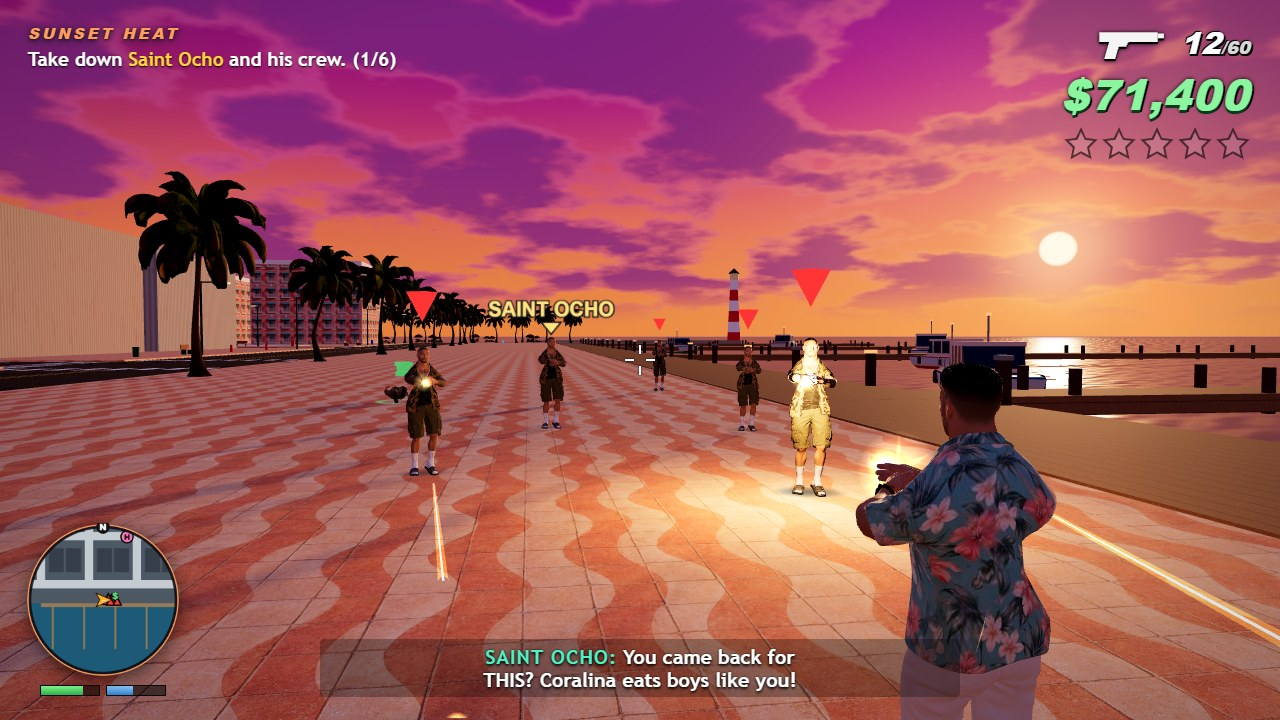
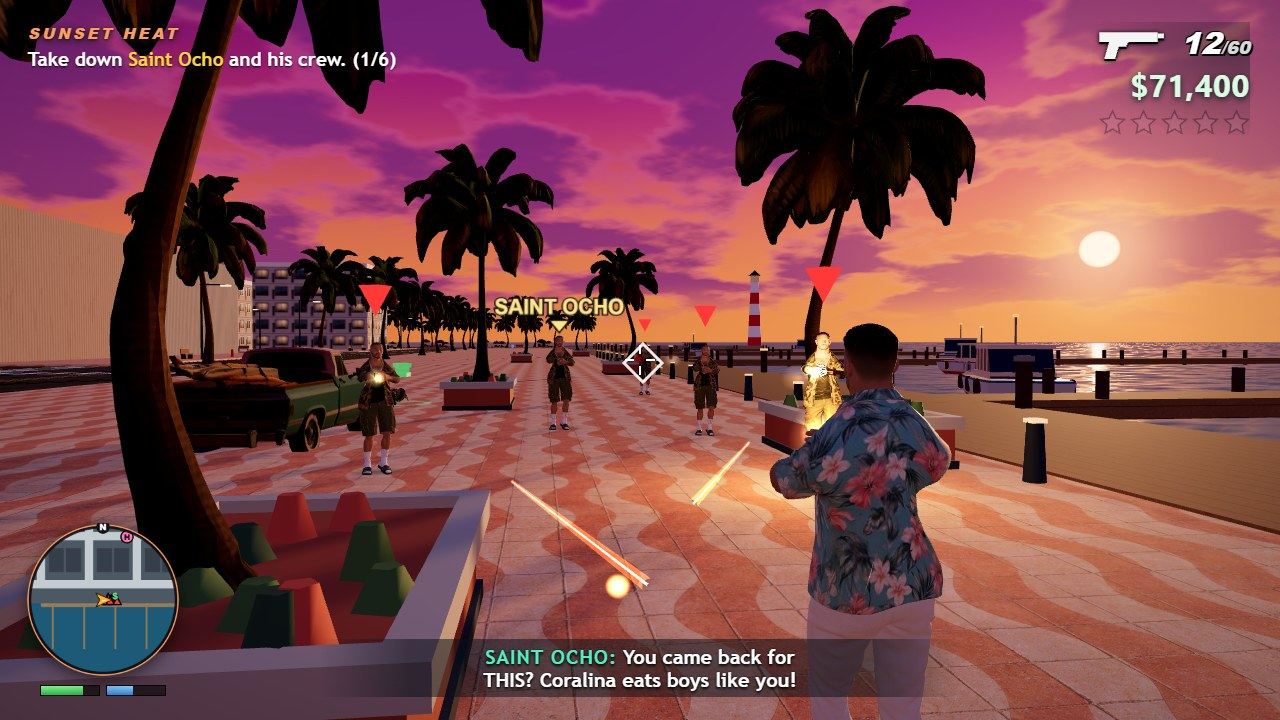
Finish and capture four deterministic Coralina scenes

diff --git a/game/src/shots.js b/game/src/shots.js
@@ -1,7 +1,9 @@
 // Deterministic in-engine compositions for the four judging screenshots.
 import { Actor } from './actors.js';
+import { Helicopter } from './police.js';
+import { randomLook } from './humanoid.js';
 import { MISSIONS, CAST } from './story.js';
-import { goldenHour, dressDrift, dressMarina, lightOceanDrive, coastBackdrop, openDriverDoor, targetBadge } from './shot-art.js';
+import { goldenHour, dressDrift, dressMarina, lightOceanDrive, coastBackdrop, openDriverDoor, targetBadge, TITLE_COAST } from './shot-art.js';
 
 const params = new URLSearchParams(location.search);
 
@@ -27,8 +29,8 @@ function startMission(game, index, step) {
   m.advance();
 }
 
-function walker(game, x, z, heading) {
-  const a = new Actor(game, 'civilian', x, z);
+function walker(game, x, z, heading, look) {
+  const a = new Actor(game, 'civilian', x, z, look);
   a.heading = heading;
   a.body.root.position.copy(a.position);
   a.body.root.rotation.y = heading;
@@ -40,10 +42,11 @@ function walker(game, x, z, heading) {
 
 const SCENES = {
   chase(game) {
-    goldenHour(game, [0.94, 0.078, 0.34]);
+    goldenHour(game, [0.84, 0.108, 0.54]);
+    game.day.hemi.intensity = 1.68;
     game.stats.cash = 48250;
     const p = game.player;
-    const hero = game.vehicles.spawn('sports', 358.5, -118, Math.PI - 0.58, 0xff2d3c);
+    const hero = game.vehicles.spawn('sports', 357.9, -118, Math.PI + 0.53, 0xff2d3c);
     p.vehicle = hero;
     hero.driver = 'player';
     hero.vz = -39;
@@ -52,7 +55,7 @@ const SCENES = {
     p.updateDriving(0);
     startMission(game, 3, 3);
     game.wanted.setLevel(4);
-    const cops = [[362, -112.8, 0.29], [364.4, -107.6, 0.07], [365.6, -102.9, -0.05]].map(([x, z, yaw]) => {
+    const cops = [[361.4, -111.7, 0.13], [364.0, -104.8, 0.18], [364.4, -95.2, 0.04]].map(([x, z, yaw]) => {
       const car = game.police.spawnCruiser(x, z, Math.PI + yaw);
       car.syncMesh(0);
       return car;
@@ -62,42 +65,63 @@ const SCENES = {
     for (const z of [-138, -128, -111, -95, -82]) walker(game, 370, z, z < -120 ? 0 : Math.PI);
     dressDrift(game, hero, cops);
     coastBackdrop(game);
+    game.police.heli = new Helicopter(game);
+    game.police.heli.pos.set(390, 13.1, -93.4);
+    game.police.heli.update(0, true);
+    game.police.heli.spot.intensity = 1750;
+    game.police.heli.rotor.rotation.y = 0.66;
     game.hud.showVehicleName(hero.label);
-    camera(game, [348.9, 2.35, -117.0, 365, 1.55, -113.1], 51);
+    camera(game, [351.15, 1.64, -124.8, 364.8, 3.64, -108.2], 51);
   },
 
   street(game) {
     goldenHour(game, [0.72, 0.19, 0.66]);
-    game.day.hemi.intensity = 1.19;
+    game.day.hemi.intensity = 1.44;
     game.stats.cash = 12780;
     const car = game.vehicles.spawn('sports', 43.6, -129, Math.PI, 0xff2d3c);
     openDriverDoor(game, car);
     const p = game.player;
     p.current = 'fists';
-    p.position.set(46.34, 0, -128.02);
-    p.heading = -1.95;
+    p.position.set(46.29, 0.02, -128.05);
+    p.heading = -1.14;
     p.body.root.position.copy(p.position);
     p.body.root.rotation.y = p.heading;
-    p.body.reach = [[-0.10, 1.02, 0.62], [0.28, 0.80, 0.47]];
+    p.body.reach = [[0.02, 1.26, 0.78], [0.22, 1.05, 0.72]];
     p.body.speed = 3.2;
     p.body.update(0.37);
-    if (p.body.model) p.body.model.rotation.x = -0.13;
-    const driver = walker(game, 45.44, -128.67, 1.05);
-    driver.body.reach = [[-0.13, 1.12, 0.70], [0.54, 1.31, 0.07]];
+    p.body.hips.rotation.x = 0.17;
+    if (p.body.arms) {
+      p.body.arms[0].shoulder.rotation.set(-1.45, 0, -0.47);
+      p.body.arms[0].elbow.rotation.x = -0.3;
+      p.body.arms[1].shoulder.rotation.set(-1.25, 0, 0.15);
+      p.body.arms[1].elbow.rotation.x = -0.46;
+    }
+    if (p.body.model) p.body.model.rotation.x = 0.14;
+    const driverLook = { ...randomLook(), skirt: true, resortBlue: true };
+    const driver = walker(game, 45.37, -129.23, 0.95, driverLook);
+    driver.body.reach = [[-0.48, 1.61, 0.37], [0.59, 1.50, 0.23]];
     driver.body.update(0.29);
-    if (driver.body.model) driver.body.model.rotation.x = 0.35;
+    driver.body.hips.position.y -= 0.17;
+    driver.body.hips.rotation.x = 0.38;
+    if (driver.body.arms) {
+      driver.body.arms[0].shoulder.rotation.set(-2.18, 0, -0.62);
+      driver.body.arms[1].shoulder.rotation.set(-1.13, 0, 0.43);
+      driver.body.arms[1].elbow.rotation.x = -0.57;
+    }
+    if (driver.body.model) driver.body.model.rotation.set(0.31, 0.12, -0.20);
     for (const [x, z, yaw] of [[49, -139, 0], [51, -150, 0.25], [31, -141, -0.15], [33, -151, 0], [48, -171, 0.3], [53, -122, -1.1], [30, -134, 0.8]]) walker(game, x, z, yaw);
     game.vehicles.spawn('taxi', 36.5, -146, 0.1);
     game.vehicles.spawn('pickup', 43.8, -168, Math.PI);
     game.vehicles.spawn('sedan', 36.4, -184, 0);
     game.hud.setObjective('Hot Wheels', 'Steal Ocho’s ~Vortice GT~.');
-    game.hud.subtitle(CAST.vera.name, CAST.vera.color, MISSIONS[3].steps[0].lines[0][1], 4);
-    camera(game, [48.1, 2.12, -124.6, 44.9, 1.25, -129.15], 52);
+    game.hud.subtitle(CAST.vera.name, CAST.vera.color, 'That’s Ocho’s car. Get in before he knows it’s gone.', 4);
+    camera(game, [49.2, 1.91, -125.38, 44.65, 1.29, -130.02], 54);
   },
 
   mission(game) {
     goldenHour(game, [0.79, 0.10, 0.60]);
     dressMarina(game);
+    game.vehicles.spawn('pickup', 155.5, 380.8, 1.5, 0x264a49);
     game.stats.cash = 71400;
     const p = game.player;
     p.position.set(143.4, 0.16, 386.4);
@@ -114,7 +138,7 @@ const SCENES = {
     p.body.update(0);
     startMission(game, 5, 3);
     const enemies = game.missions.enemies;
-    const positions = [[157, 385.5], [152, 383.6], [150, 388.4], [156, 389.4], [163, 381.5], [167, 389.5]];
+    const positions = [[156.9, 385.7], [151.9, 383.15], [150.7, 388.9], [155.6, 388.4], [163, 381.5], [167, 388.75]];
     enemies.forEach((e, i) => {
       e.position.set(positions[i][0], 0.16, positions[i][1]);
       e.heading = Math.atan2(p.position.x - e.position.x, p.position.z - e.position.z);
@@ -125,7 +149,7 @@ const SCENES = {
       if (i === 4) e.damage(500, 'player');
       e.body.update(i === 4 ? 0.5 : 0);
     });
-    camera(game, [141.31, 2.06, 385.05, 156.3, 1.58, 387.25], 51);
+    camera(game, [141.01, 1.92, 385.34, 156.3, 1.56, 387.25], 49);
     game.combat.playerShoot();
     for (const e of [enemies[1], enemies[2]]) game.combat.npcShoot(e, 0, 0);
     for (const p of game.effects.active) if (p.kind === 'flash') p.size *= 0.63;
@@ -140,11 +164,12 @@ const SCENES = {
 
   title(game) {
     goldenHour(game, [-0.44, 0.08, 0.89]);
+    game.day.hemi.intensity = 1.54;
     lightOceanDrive(game);
     game.player.position.set(368, 0, -236);
     game.player.body.root.visible = false;
     game.menu.title();
-    camera(game, [474, 8.6, -344, 404, 7.2, -233], 52);
+    camera(game, TITLE_COAST, 51);
   },
 };
 

diff --git a/game/src/shot-art.js b/game/src/shot-art.js
@@ -3,6 +3,8 @@ import * as THREE from 'three';
 import { glowTexture } from './textures.js';
 import { ISLAND, SEA_LEVEL } from './map.js';
 
+export const TITLE_COAST = [459, 13.1, -350, 396, 7.8, -233];
+
 export function goldenHour(game, direction) {
   const d = game.day;
   d.setHour(19.25);
@@ -23,39 +25,7 @@ export function goldenHour(game, direction) {
   game.scene.fog.density = 0.00039;
   d.bakeEnvironment();
   game.scene.environmentIntensity = 0.44;
-  sunsetWater(game, d.uniforms);
-}
-
-function sunsetWater(game, sky) {
-  const water = game.city.waterMat;
-  water.color.set(0x145268);
-  water.roughness = 0.22;
-  water.onBeforeCompile = shader => {
-    shader.uniforms.sunsetDirection = sky.sunDir;
-    shader.uniforms.sunsetColor = sky.sunColor;
-    shader.uniforms.horizonTint = sky.horizonColor;
-    shader.vertexShader = 'varying vec3 vOceanPoint;\n' + shader.vertexShader.replace('#include <worldpos_vertex>', `
-      #include <worldpos_vertex>
-      vOceanPoint = (modelMatrix * vec4(transformed, 1.0)).xyz;
-    `);
-    shader.fragmentShader = `
-      varying vec3 vOceanPoint;
-      uniform vec3 sunsetDirection, sunsetColor, horizonTint;
-    ` + shader.fragmentShader.replace('#include <opaque_fragment>', `
-      vec3 eye = normalize(cameraPosition - vOceanPoint);
-      vec2 p = vOceanPoint.xz;
-      vec2 ripple = vec2(sin(p.x * 0.77 + p.y * 1.38), cos(p.x * 1.47 - p.y * 0.82));
-      ripple += 0.46 * vec2(cos(p.y * 3.28), sin(p.x * 2.45 + p.y * 1.65));
-      vec3 reflected = reflect(-eye, normalize(vec3(ripple.x * 0.043, 1.0, ripple.y * 0.043)));
-      float alongSun = max(dot(reflected, sunsetDirection), 0.0);
-      float glare = pow(alongSun, 110.0) * 0.26 + pow(alongSun, 1250.0) * 1.55;
-      float grazing = pow(1.0 - clamp(eye.y, 0.0, 1.0), 5.0);
-      outgoingLight = mix(outgoingLight, horizonTint * 0.36 + vec3(0.018, 0.037, 0.068), grazing * 0.82);
-      outgoingLight += sunsetColor * glare * grazing;
-      #include <opaque_fragment>
-    `);
-  };
-  water.needsUpdate = true;
+  game.city.waterClock.value = 1.35;
 }
 
 export function dressDrift(game, hero, cruisers) {
@@ -75,6 +45,12 @@ export function dressDrift(game, hero, cruisers) {
         p.age = p.life * (0.56 + t * 0.28);
       }
     }
+  }
+  game.effects.update(0.001);
+  for (let i = 0; i < 15; i++) {
+    const taper = i / 14;
+    const puff = game.effects.emit('tire', x + 1.0 + Math.sin(i * 4) * (.34 + taper * .7), .41 + taper * .42, z + 1.9 + i * .41, 0, 0, 0, .36 + taper * 1.32);
+    puff.age = puff.life * (.34 + taper * .21);
   }
   game.effects.update(0.001);
   const glowMap = glowTexture();
@@ -105,7 +81,7 @@ export function dressDrift(game, hero, cruisers) {
       spill.rotation.x = -Math.PI / 2;
       spill.position.set(side * 1.55, 0.073, 0.5);
       car.root.add(spill);
-      const light = new THREE.PointLight(color, 11, 5.5, 2);
+      const light = new THREE.PointLight(color, 8, 5.5, 2);
       light.position.copy(lamp.position);
       car.body.add(light);
     }
@@ -203,7 +179,7 @@ export function lightOceanDrive(game) {
   for (const { plane, glow } of game.city.signs) {
     const { x, y, z } = plane.position;
     if (x < 340 || z < -330 || z > -120) continue;
-    const light = new THREE.PointLight(glow.material.color, 165, 29, 2);
+    const light = new THREE.PointLight(glow.material.color, 102, 27, 2);
     light.position.set(x + 3.5, y - 2, z);
     game.scene.add(light);
   }

diff --git a/game/src/assets.js b/game/src/assets.js
@@ -137,6 +137,21 @@ export function createCharacter(look) {
     if (!o.isMesh) return;
     o.material = o.material.clone();
     o.material.color.offsetHSL((look.shirt % 101) / 101 * 0.3 - 0.15, -0.06, 0.025);
+    const clothHue = { value: look.resortBlue ? 1.0 : ((look.shirt >>> 12) % 7 - 3) * 0.13 };
+    const complexion = { value: new THREE.Color(look.skin).r };
+    o.material.onBeforeCompile = shader => {
+      shader.uniforms.clothHue = clothHue;
+      shader.uniforms.complexion = complexion;
+      shader.fragmentShader = 'uniform float clothHue, complexion;\n' + shader.fragmentShader.replace('#include <map_fragment>', `
+        #include <map_fragment>
+        vec3 col = diffuseColor.rgb;
+        float cloth = smoothstep(.145,.34,col.r-max(col.g,col.b))*(1.0-smoothstep(.43,.63,col.g/max(col.r,.01)));
+        vec3 petrol = col.gbr * vec3(.78,1.28,1.09);
+        diffuseColor.rgb = mix(col, mix(col,petrol,clamp(.22+clothHue,0.0,1.0)),cloth);
+        float skin = smoothstep(.21,.38,col.r)*smoothstep(.45,.62,col.g/max(col.r,.01))*(1.0-smoothstep(.87,.97,col.b/max(col.g,.01)));
+        diffuseColor.rgb *= 1.0 + skin * (complexion-.55)*.29;
+      `);
+    };
     ownedMaterials.push(o.material);
   });
   const mixer = new THREE.AnimationMixer(model);

diff --git a/game/src/coastal-materials.js b/game/src/coastal-materials.js
@@ -35,8 +35,13 @@ export function shadeSand(material) {
       float ripple = sin(p.x*12.0 + 1.4*sin(p.y*1.4) + drift*5.8);
       ripple *= 1.0-smoothstep(.05,.85,length(fwidth(p)));
       float wet = smoothstep(coastLine - 7.0, coastLine - .5, p.x + (drift-.5)*4.0);
-      diffuseColor.rgb *= mix(vec3(.81,.66,.51), vec3(.36,.25,.21), wet);
-      diffuseColor.rgb *= .85 + .28*drift + .10*ripple;
+      vec2 trail = vec2(mod(p.x - 384.0, 18.0), p.y + .8*sin(p.x*.083));
+      float stride = floor(trail.x / .58);
+      vec2 stepPos = vec2(mod(trail.x,.58)-.29, mod(trail.y + mod(stride,2.0)*.17, 13.0)-6.5);
+      float printMark = (1.0-smoothstep(.70,1.13,length(stepPos*vec2(7.6,16.0))))*step(.31,coastHash(vec2(stride,floor(p.y/13.0))));
+      printMark *= smoothstep(373.0,382.0,p.x)*(1.0-smoothstep(.047,.21,length(fwidth(p))));
+      diffuseColor.rgb *= mix(vec3(.92,.75,.52), vec3(.36,.25,.21), wet);
+      diffuseColor.rgb *= .85 + .26*drift + .079*ripple - .22*printMark;
     `);
   };
 }
